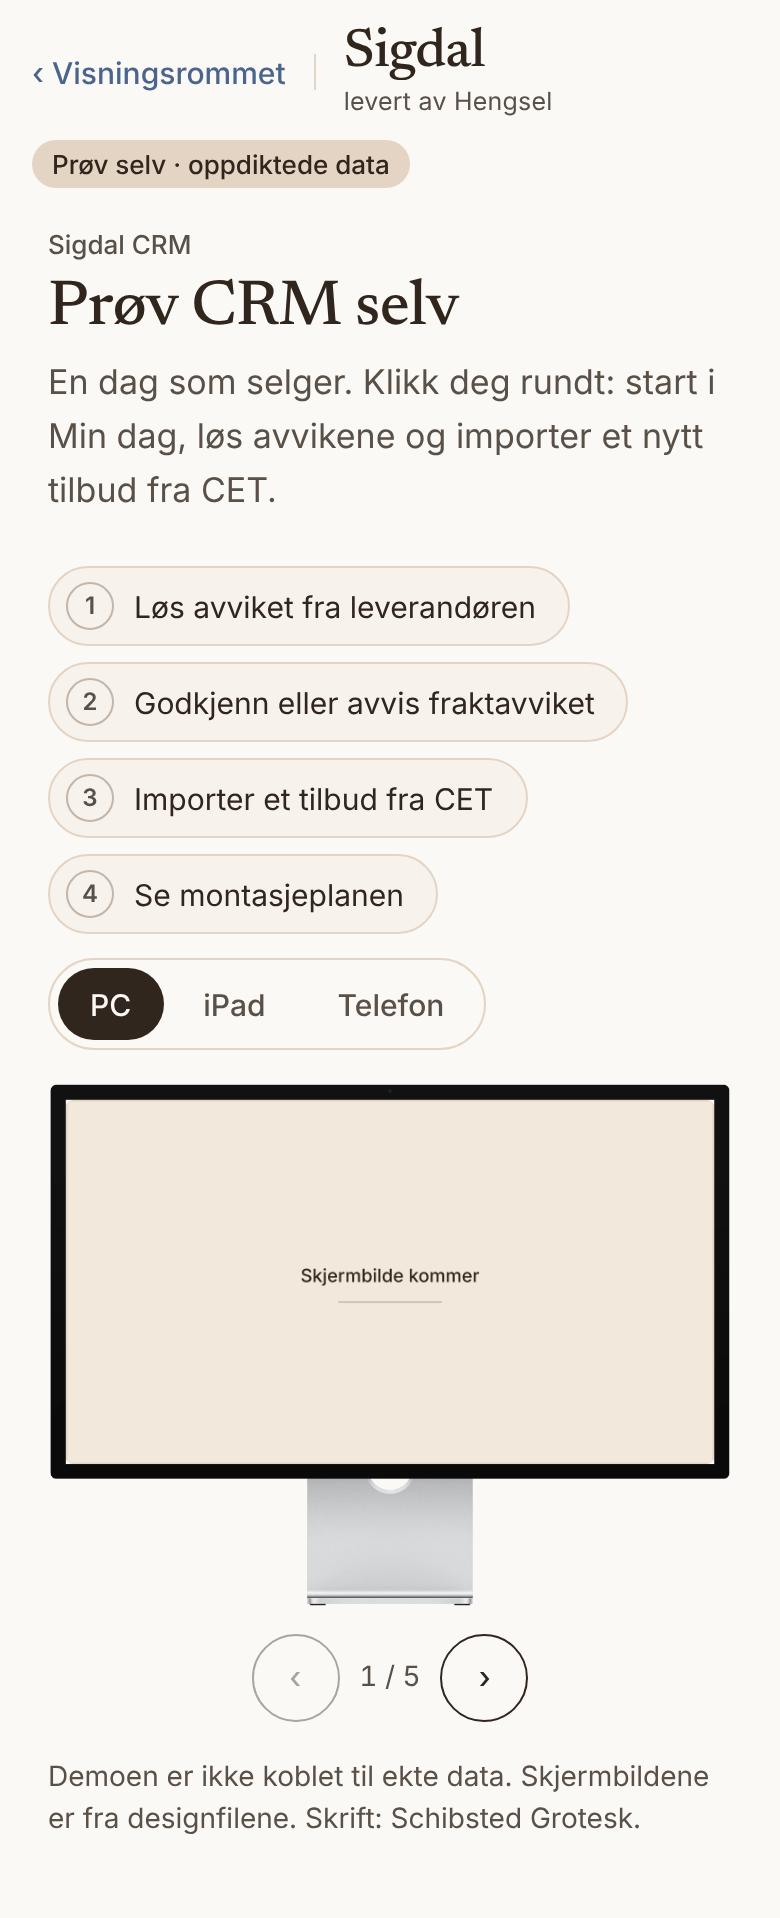
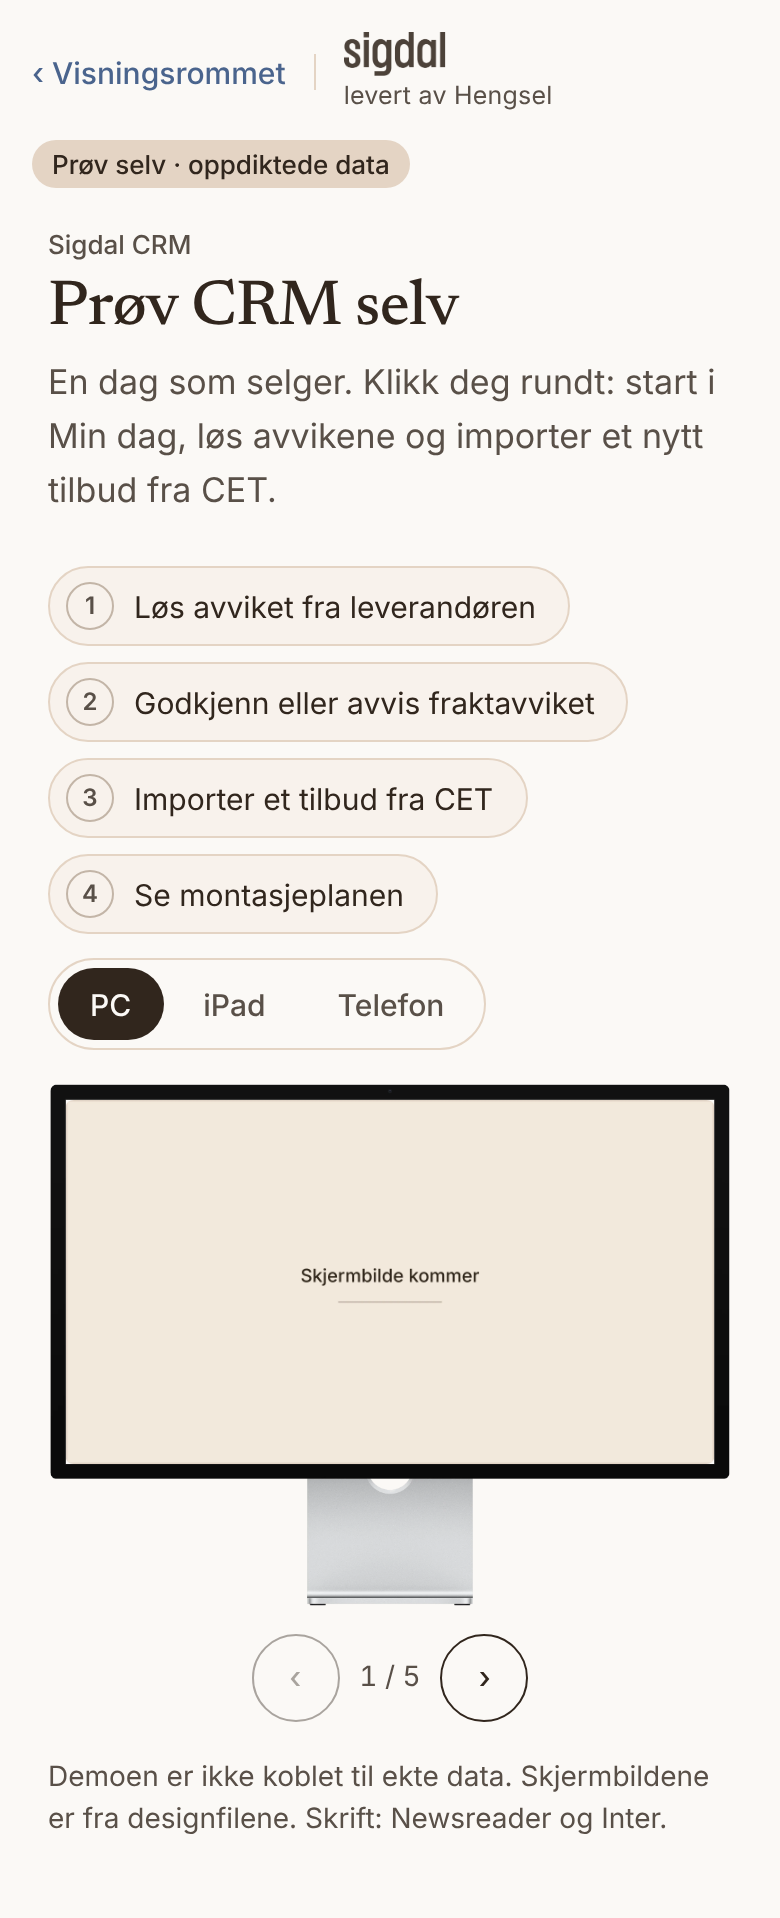
K-223: bruk Sigdal-logoen (PNG, Warm Black) i meny, bunn og Visningsrommet; oppdatert rapport og skjermbilder
Claude-Session: https://claude.ai/code/session_01MKQ3HS3VWqKcvFk4zct45d

Changed region(s): [[0.4308, 0.0, 0.7077, 0.0615], [0.4923, 0.9228, 0.8308, 0.9536]]

diff --git a/packages/kundetema-sigdal/tokens.css b/packages/kundetema-sigdal/tokens.css
@@ -121,3 +121,6 @@
 .kundelogo-levert { font-family: var(--skrift-familie-hengsel-tekst); font-size: 0.78rem; line-height: 1.2; color: var(--tekst-dempet); letter-spacing: 0.01em; }
 /* Tekstmerke i stedet for Hengsel-logoene (produktnavn og «levert av Hengsel») inne i sidene */
 .kl-ord { display: inline-block; width: auto; height: auto; max-width: 100%; font-family: var(--skrift-familie-hengsel-overskrift); font-weight: var(--skrift-vekt-fet); font-size: 1.3rem; line-height: 1.2; letter-spacing: -0.01em; color: var(--tekst); white-space: nowrap; }
+/* Visningsrommet: logoen i toppfeltet er mindre, og plassen under er smalere på telefon */
+:root[data-kunde="sigdal"] .hlogo { height: auto; min-height: var(--h, 28px); }
+.kundelogo-vis .kundelogo-bilde { height: 22px; }

diff --git a/claude/k223-rapport.md b/claude/k223-rapport.md
@@ -25,7 +25,7 @@ Valgt: **bygge Visningsrommet i Sigdal-utgave inn i `hengsel.no/sigdal/vis/`** a
 10. `DEMO_PASSORD` (hemmelighet i Workeren) vises på `/sigdal/apptest` for alle som kommer gjennom Access. Fjern den hemmeligheten eller begrens policyen hvis det ikke er ønsket.
 
 ## Åpne punkter og avvik
-- **Sigdal-logoen finnes ikke i repoet.** Til den er levert står «Sigdal» som tekstmerke i Newsreader (plassholder) med «levert av Hengsel» under. Legg den transparente SVG-en (Warm Black) som `sites/hengsel/public/sigdal/logo/sigdal-logo.svg`: `KundeLogo.astro` bruker den da automatisk (SVG-en kan ha Sigdal-hex, testen godtar det). Bare tekst for «levert av»: Hengsel Levering-logoen har Hengsel-grønt og er ikke brukt.
+- **Sigdal-logoen** er lagt inn av en annen økt (commit `f3b566c`, transparent PNG i Warm Black og Off White, `sites/hengsel/public/sigdal/logo/`). Menyen, bunnen og vis-rommene bruker Warm Black-utgaven med «levert av Hengsel» som tekst under. En SVG som `sigdal-logo.svg` i samme mappe går foran PNG-en (SVG-en kan ha Sigdal-hex, testen godtar det). Hengsel Levering-logoen er ikke brukt fordi den har Hengsel-grønt.
 - **Ingen rød eller grønn i profilen.** Statustonene, advarsel og feil er tegnet med Beige, Warm Black og blå toner (feil: Warm Black på Beige 2 med mørk ramme). Be Design avgjøre om feil/advarsel trenger egen farge.
 - **Aksenten** `--accent` (tekst og fyll) er Deep Blue mørknet 20 % med Warm Black, fordi ren Deep Blue har 4,28:1 mot Beige 4 (under 4,5:1). Ren Deep Blue brukes som `--aksent`.
 - **Produktnavn:** «Hengsel CRM» → «Sigdal CRM». «Hengsel Ute» og «levert av Hengsel» beholdes (appen heter Hengsel Ute i butikkene). Demo-CTA-er («Be om demo») er byttet til «Ta kontakt» (mailto hei@hengsel.no), og «Priser og demo»-kortet er omskrevet. Tekstene står i `packages/kundetema-sigdal/profil.json`.
